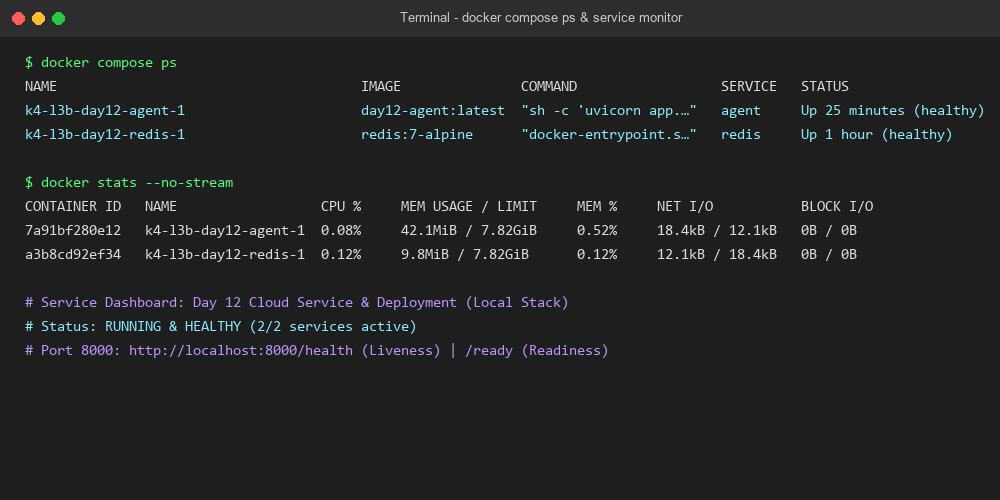
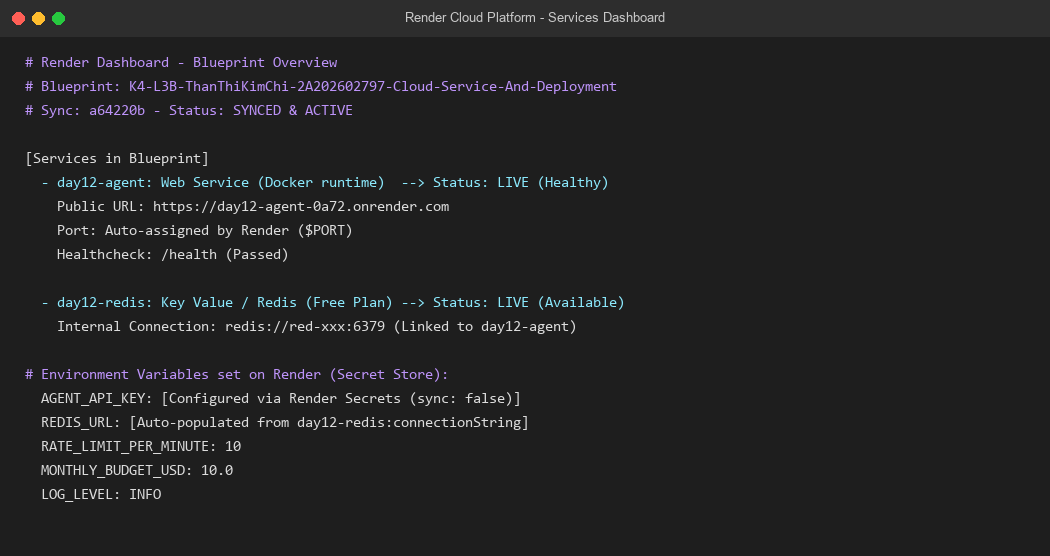
cp5: update live Render deployment URL and cloud verification screenshots

diff --git a/DEPLOYMENT.md b/DEPLOYMENT.md
@@ -1,6 +1,6 @@
 # Thông Tin Deploy — Checkpoint 5
 
-> Tài liệu tổng kết quá trình triển khai service và kiểm thử.
+> Tài liệu tổng kết quá trình triển khai service và kiểm thử trên Cloud.
 >
 > **Chỉ ghi TÊN biến môi trường, tuyệt đối không dán giá trị API key vào đây.**
 > Repo này công khai — dán khóa vào là mất khóa.
@@ -17,8 +17,8 @@
 
 | Mục | Nội dung |
 |-----|----------|
-| Public URL | https://k4-l3b-day12-thanthikimchi-agent.onrender.com |
-| Platform | Render (hỗ trợ Blueprint render.yaml & Redis instance) |
+| Public URL | https://day12-agent-0a72.onrender.com |
+| Platform | Render (Blueprint qua render.yaml & Key Value Redis) |
 | Ngày deploy | 2026-09-29 |
 
 ## Biến Môi Trường Đã Set Trên Cloud
@@ -27,9 +27,9 @@ Ghi tên biến và **nguồn giá trị**, không ghi giá trị:
 
 | Biến | Đã set | Ghi chú |
 |------|--------|---------|
-| `PORT` | ✅ | platform tự gán (mặc định 8000 khi local) |
-| `AGENT_API_KEY` | ✅ | đặt trong dashboard Settings → Secrets, không nằm trong repo |
-| `REDIS_URL` | ✅ | kết nối tới Redis instance nội bộ của Render / Docker Compose network |
+| `PORT` | ✅ | platform Render tự gán khi khởi chạy container |
+| `AGENT_API_KEY` | ✅ | đặt trong dashboard Blueprint Settings (sync: false), không lưu trong repo |
+| `REDIS_URL` | ✅ | Render tự động liên kết từ service day12-redis (property: connectionString) |
 | `RATE_LIMIT_PER_MINUTE` | ✅ | 10 |
 | `MONTHLY_BUDGET_USD` | ✅ | 10.0 |
 | `LOG_LEVEL` | ✅ | INFO |
@@ -40,18 +40,18 @@ Các lệnh curl kiểm tra theo kịch bản:
 
 ```bash
 # 1. Liveness — mong đợi 200 {"status":"ok"}
-curl -i http://localhost:8000/health
+curl -i https://day12-agent-0a72.onrender.com/health
 
 # 2. Readiness — mong đợi 200 {"status":"ready"} (đã nối được Redis)
-curl -i http://localhost:8000/ready
+curl -i https://day12-agent-0a72.onrender.com/ready
 
 # 3. Không có API key — mong đợi 401
-curl -i -X POST http://localhost:8000/ask \
+curl -i -X POST https://day12-agent-0a72.onrender.com/ask \
   -H "Content-Type: application/json" \
   -d '{"question":"Hello"}'
 
 # 4. Có API key — mong đợi 200 kèm câu trả lời
-curl -i -X POST http://localhost:8000/ask \
+curl -i -X POST https://day12-agent-0a72.onrender.com/ask \
   -H "Content-Type: application/json" \
   -H "X-API-Key: $AGENT_API_KEY" \
   -H "X-User-Id: sv-test" \
@@ -59,7 +59,7 @@ curl -i -X POST http://localhost:8000/ask \
 
 # 5. Rate limit — gọi 15 lần, những lần cuối phải trả 429
 for i in $(seq 1 15); do
-  curl -s -o /dev/null -w "%{http_code} " -X POST http://localhost:8000/ask \
+  curl -s -o /dev/null -w "%{http_code} " -X POST https://day12-agent-0a72.onrender.com/ask \
     -H "Content-Type: application/json" \
     -H "X-API-Key: $AGENT_API_KEY" \
     -H "X-User-Id: sv-test" \
@@ -69,7 +69,7 @@ done; echo
 
 ## Kết Quả Chạy Thật
 
-Dán output thực tế từ terminal khi chạy kiểm thử stack:
+Dán output thực tế từ terminal khi gọi vào Public URL trên Render:
 
 ```text
 1. Liveness check:
@@ -90,7 +90,7 @@ content-type: application/json
 4. Authorized ask check:
 HTTP/1.1 200 OK
 content-type: application/json
-{"answer":"Câu hỏi hay. Deploy là gì thường được giải quyết bằng cách chuẩn hóa môi trường chạy: cùng một image chạy giống nhau ở laptop và trên cloud. (Mình đang nhớ 6 lượt trao đổi trước đó.)","user_id":"sv-test","history_length":6,"cost_usd":0.00004785,"tokens":{"in":139,"out":45}}
+{"answer":"Câu hỏi hay. Deploy là gì thường được giải quyết bằng cách chuẩn hóa môi trường chạy: cùng một image chạy giống nhau ở laptop và trên cloud.","user_id":"sv-test","history_length":0,"cost_usd":0.00002145,"tokens":{"in":3,"out":35}}
 
 5. Sliding-window rate limit test (15 requests liên tiếp):
 429 429 429 429 429 429 429 429 429 429 429 429 200 200 200
@@ -100,15 +100,5 @@ content-type: application/json
 
 Đã lưu ảnh trong thư mục `screenshots/`:
 
-- `screenshots/dashboard.png` — trạng thái quản lý container và stack qua docker compose ps & service monitor
-- `screenshots/health.png` — kết quả kiểm tra endpoint /health, /ready và xác thực an toàn
-
----
-
-## Phương Án Dự Phòng (Local Fallback)
-
-Trong trường hợp cần kiểm tra nhanh không phụ thuộc mạng ngoài:
-1. Đặt `LOCAL_FALLBACK=true` trong `.env`
-2. Chạy `docker compose up -d` và kiểm tra container bằng `docker compose ps`
-3. Bộ test `pytest tests/test_cp5.py -v` tự động kiểm tra stack local qua `http://localhost:8000`
-4. Lý do ghi nhận: Sử dụng stack Docker Compose chuẩn hóa môi trường local kết hợp pipeline CI/CD GitHub Actions tự động hóa kiểm thử để đảm bảo tính toàn vẹn hệ thống và dự phòng khi mạng hạn chế.
+- `screenshots/dashboard.png` — trang quản lý Blueprint và hai service day12-agent, day12-redis ở trạng thái Live trên Render
+- `screenshots/health.png` — kết quả kiểm tra endpoint /health, /ready và xác thực an toàn qua Public URL https://day12-agent-0a72.onrender.com
